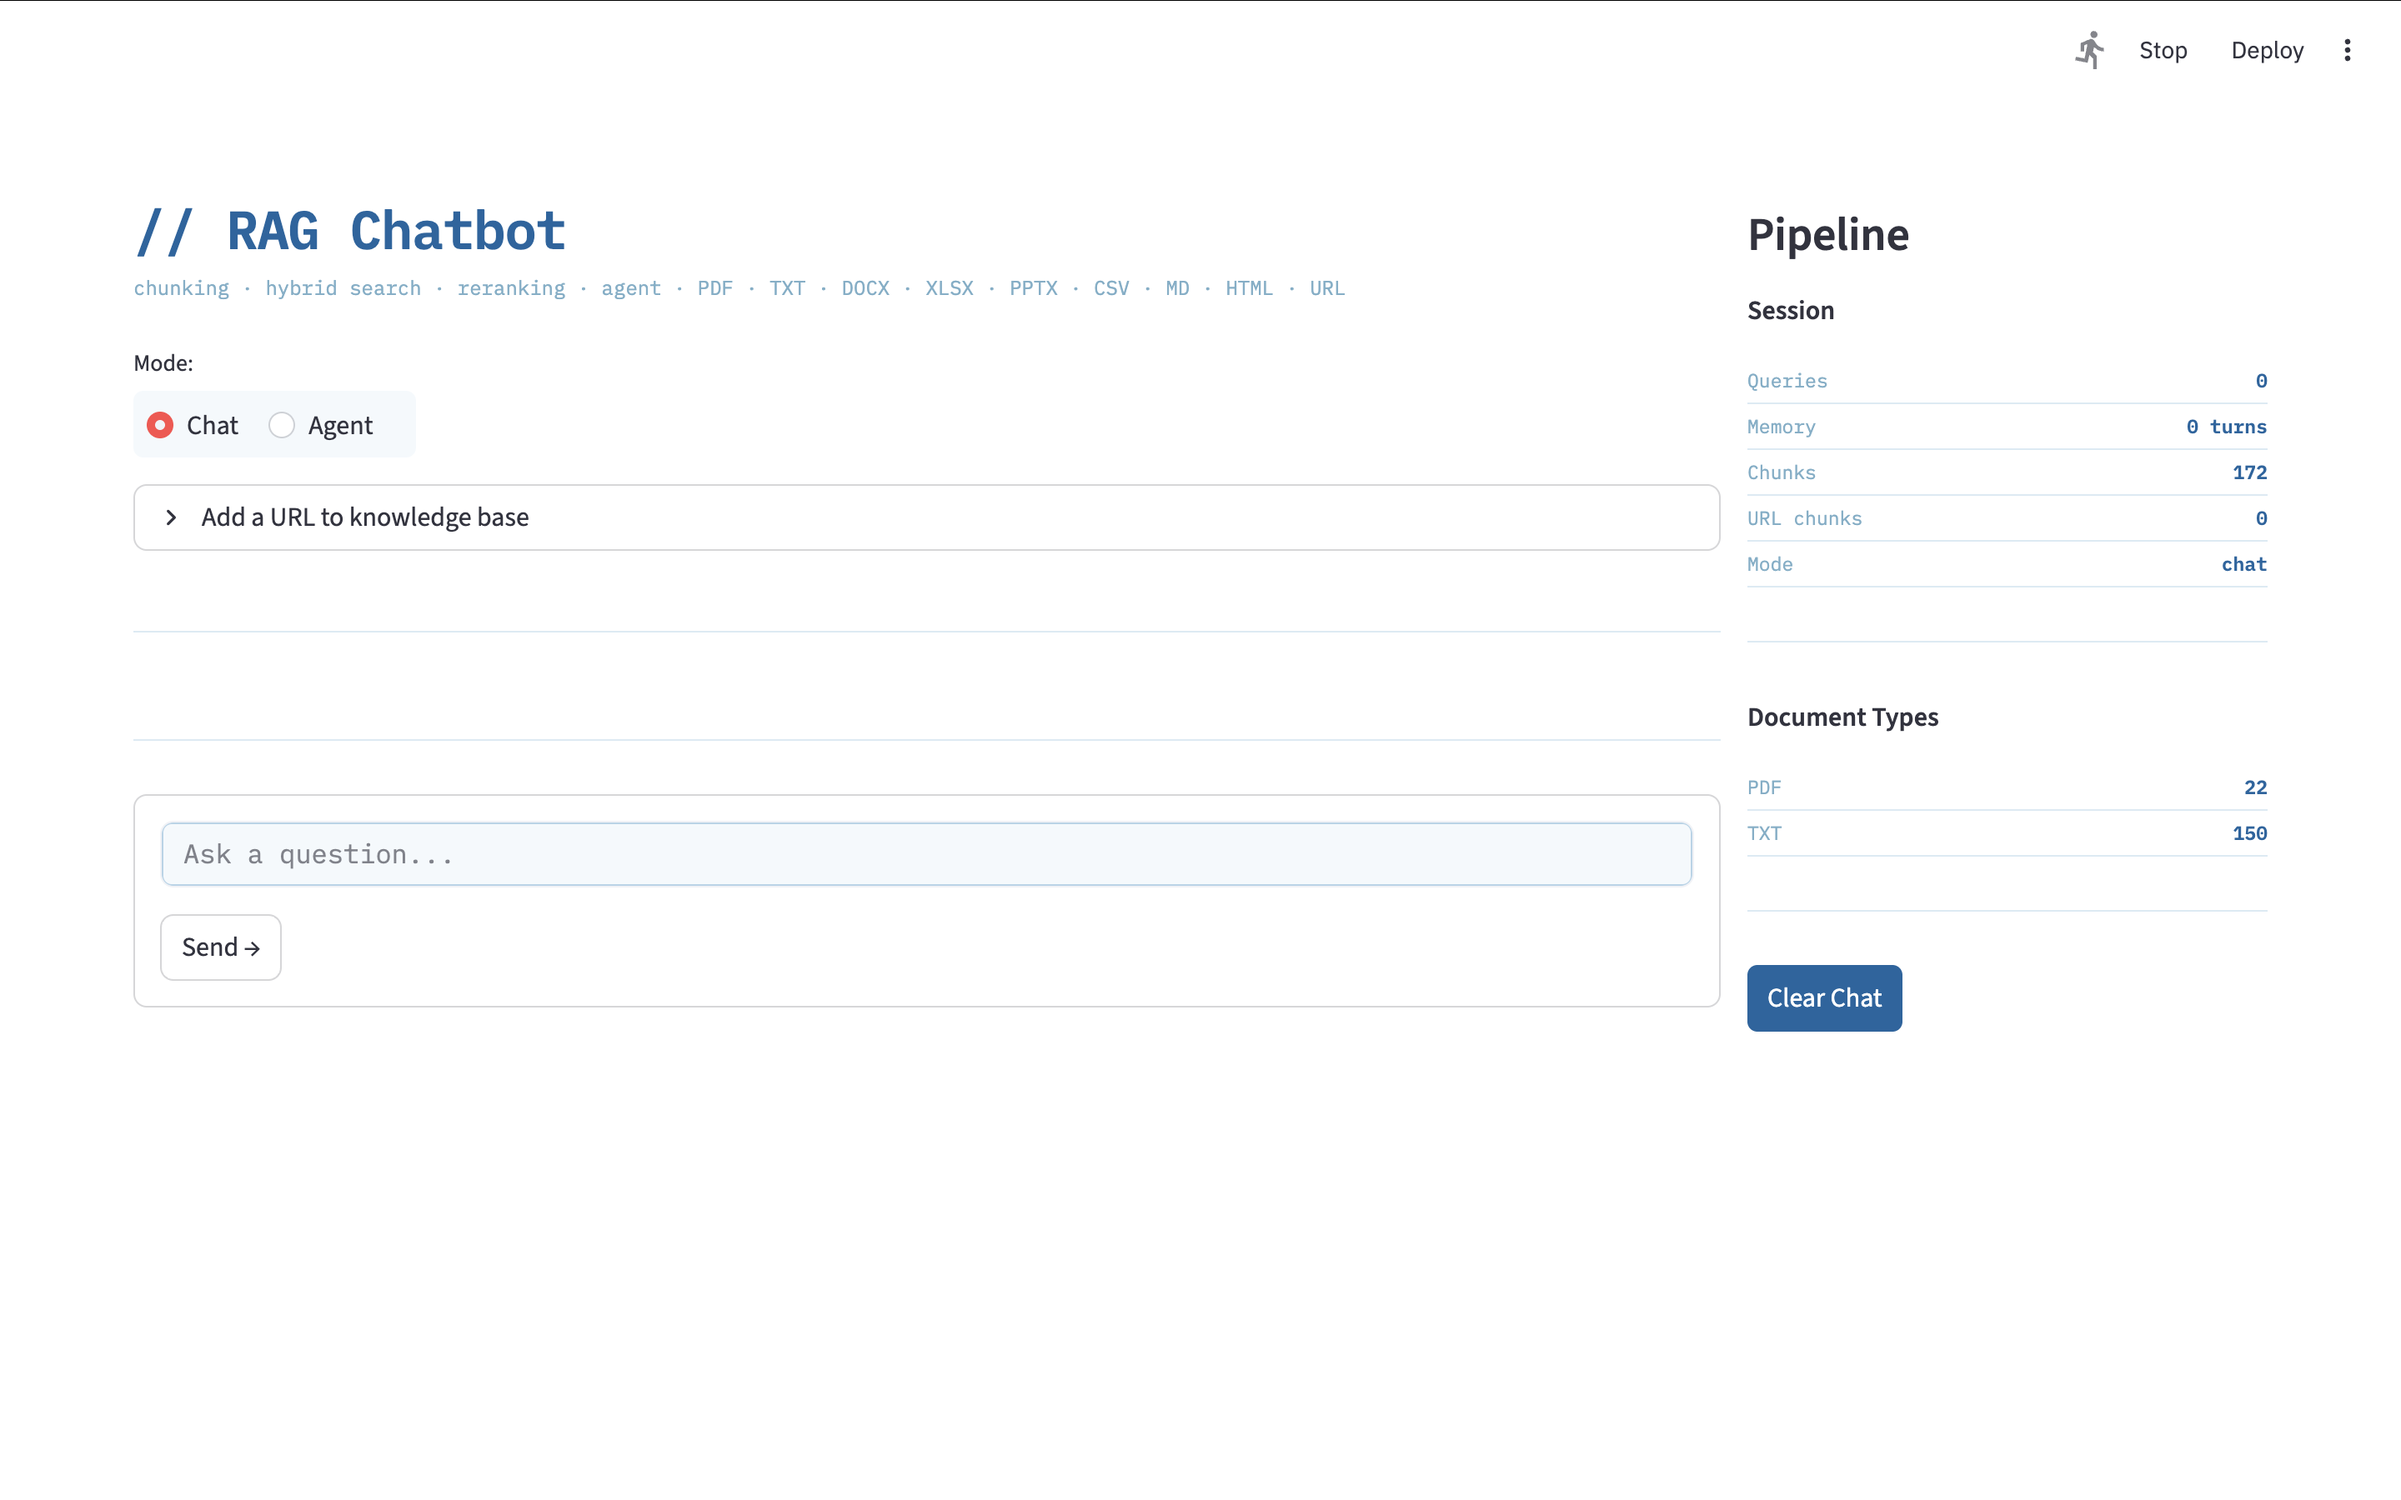
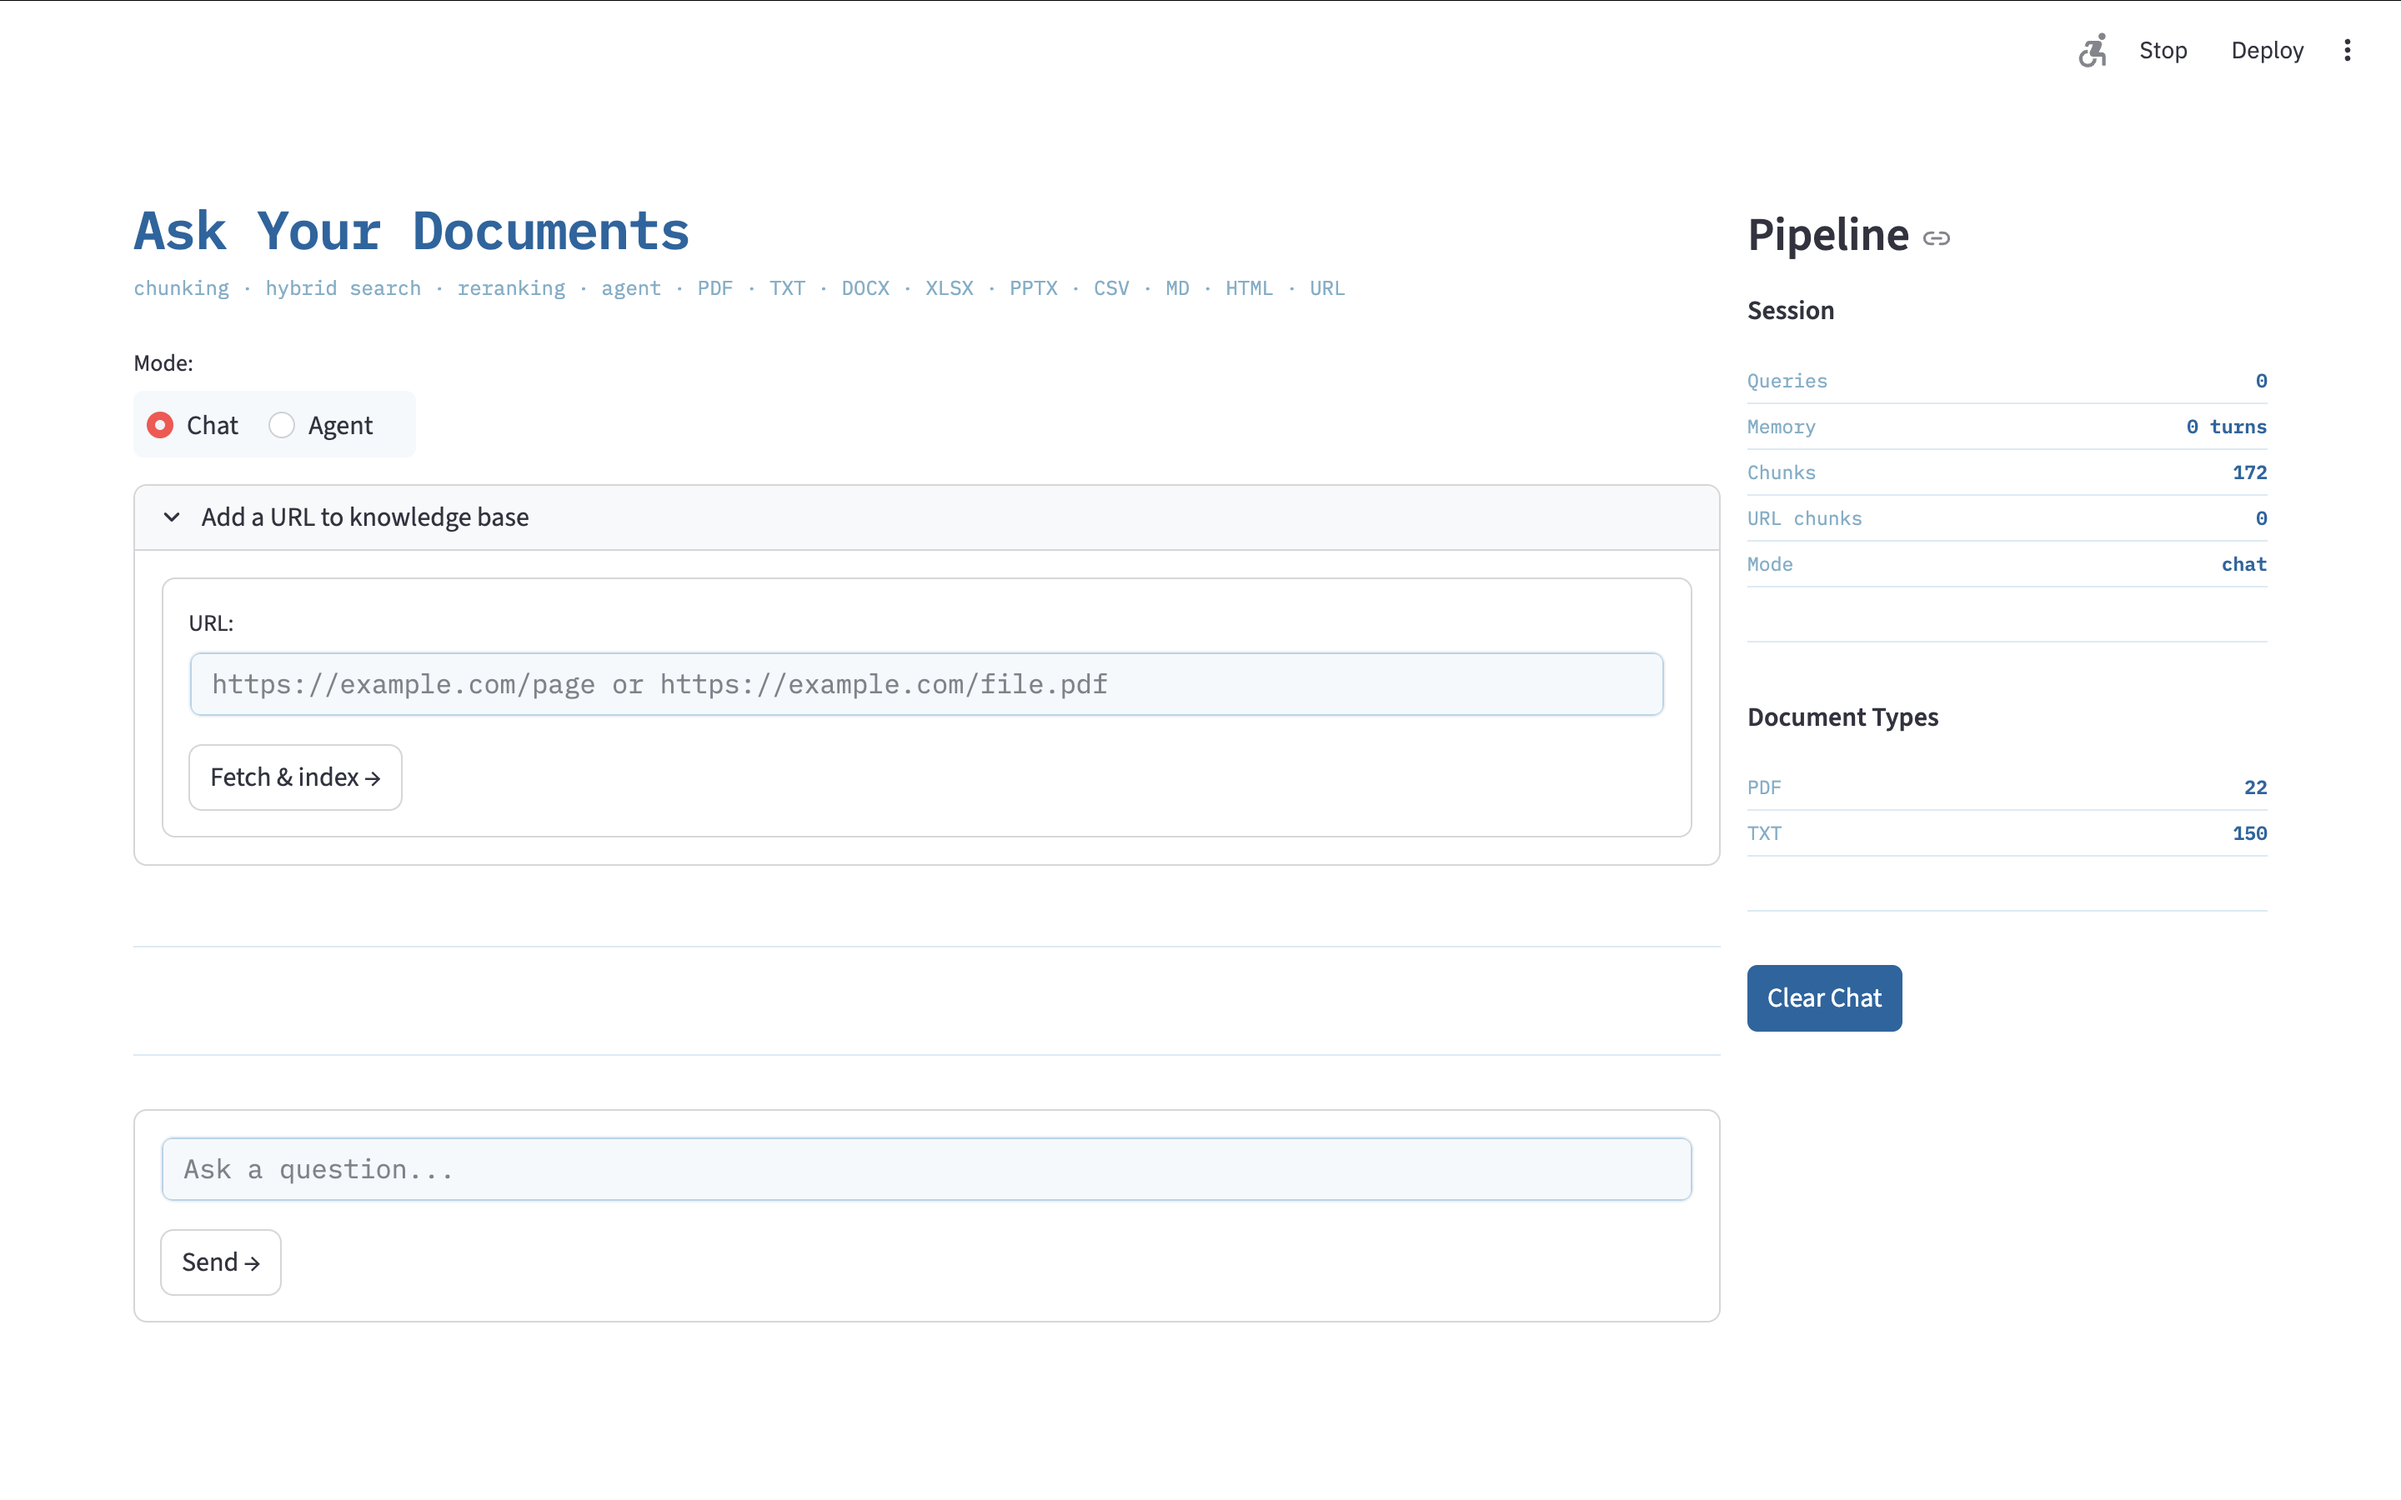
title change

diff --git a/rag_app.py b/rag_app.py
@@ -1357,7 +1357,7 @@ def run_terminal(collection, chunks, bm25_index):
 def run_streamlit(collection, chunks, bm25_index):
     import streamlit as st
 
-    st.set_page_config(page_title="RAG Chatbot", page_icon="🐱", layout="wide")
+    st.set_page_config(page_title="Ask Your Documents", page_icon="🐱", layout="wide")
     st.markdown("""
     <style>
     @import url('https://fonts.googleapis.com/css2?family=IBM+Plex+Mono:wght@400;600&family=IBM+Plex+Sans:wght@300;400;600&display=swap');
@@ -1391,7 +1391,7 @@ def run_streamlit(collection, chunks, bm25_index):
     col_main, col_side = st.columns([3,1])
 
     with col_main:
-        st.markdown('<div class="rag-title">RAG Chatbot</div>', unsafe_allow_html=True)
+        st.markdown('<div class="rag-title">Ask Your Documents</div>', unsafe_allow_html=True)
         st.markdown(
             '<div class="rag-sub">chunking · hybrid search · reranking · agent · '
             'PDF · TXT · DOCX · XLSX · PPTX · CSV · MD · HTML · URL</div>',

diff --git a/README.md b/README.md
@@ -8,12 +8,6 @@ A production-grade, fully local RAG chatbot and agent built incrementally with a
 
 ---
 
-## Streamlit UI (local)
-
-![Streamlit Interface](assets/streamlit_rag.png)
-
----
-
 ## Features
 
 | # | Feature | Details |
@@ -35,7 +29,7 @@ A production-grade, fully local RAG chatbot and agent built incrementally with a
 | 15 | **Streaming with typing indicator** | Token-level streaming with animated typing indicator in terminal |
 | 16 | **Benchmarking** | Automated eval suite with faithfulness, answer relevancy, keyword recall, and context relevance scores — with before/after run comparison |
 | 17 | **Agent with tool calling** | Agentic mode with `rag_search`, `calculator`, `summarise`, and `finish` tools; robust tool-call parsing and auto-finish logic |
-| 18 | **Streamlit UI** | Dark-themed web UI with chat + agent mode toggle, URL ingestion panel, live pipeline sidebar (pre/post rerank chunks, confidence badges, document type breakdown, session stats) |
+| 18 | **Streamlit UI** | Ocean Blue web UI with chat + agent mode toggle, URL ingestion panel, live pipeline sidebar (pre/post rerank chunks, confidence badges, document type breakdown, session stats) |
 | 19 | **URL ingestion** | Paste any public URL — webpage, PDF, DOCX, XLSX, CSV, PPTX — and it is fetched, auto-detected by type, chunked through the correct chunker, and added to the index alongside local files |
 
 ---
@@ -274,7 +268,7 @@ Results are saved to `benchmark_results.json` with run-over-run comparison so yo
 ![Streamlit Interface](assets/streamlit_rag.png)
 
 The web UI features:
-- Dark terminal-aesthetic theme
+- Ocean Blue theme — white background with deep navy and light blue accents
 - Chat and Agent mode toggle
 - **URL ingestion panel** — paste any public URL to fetch and index it alongside local files
 - Live pipeline sidebar showing pre/post rerank chunks with similarity scores
